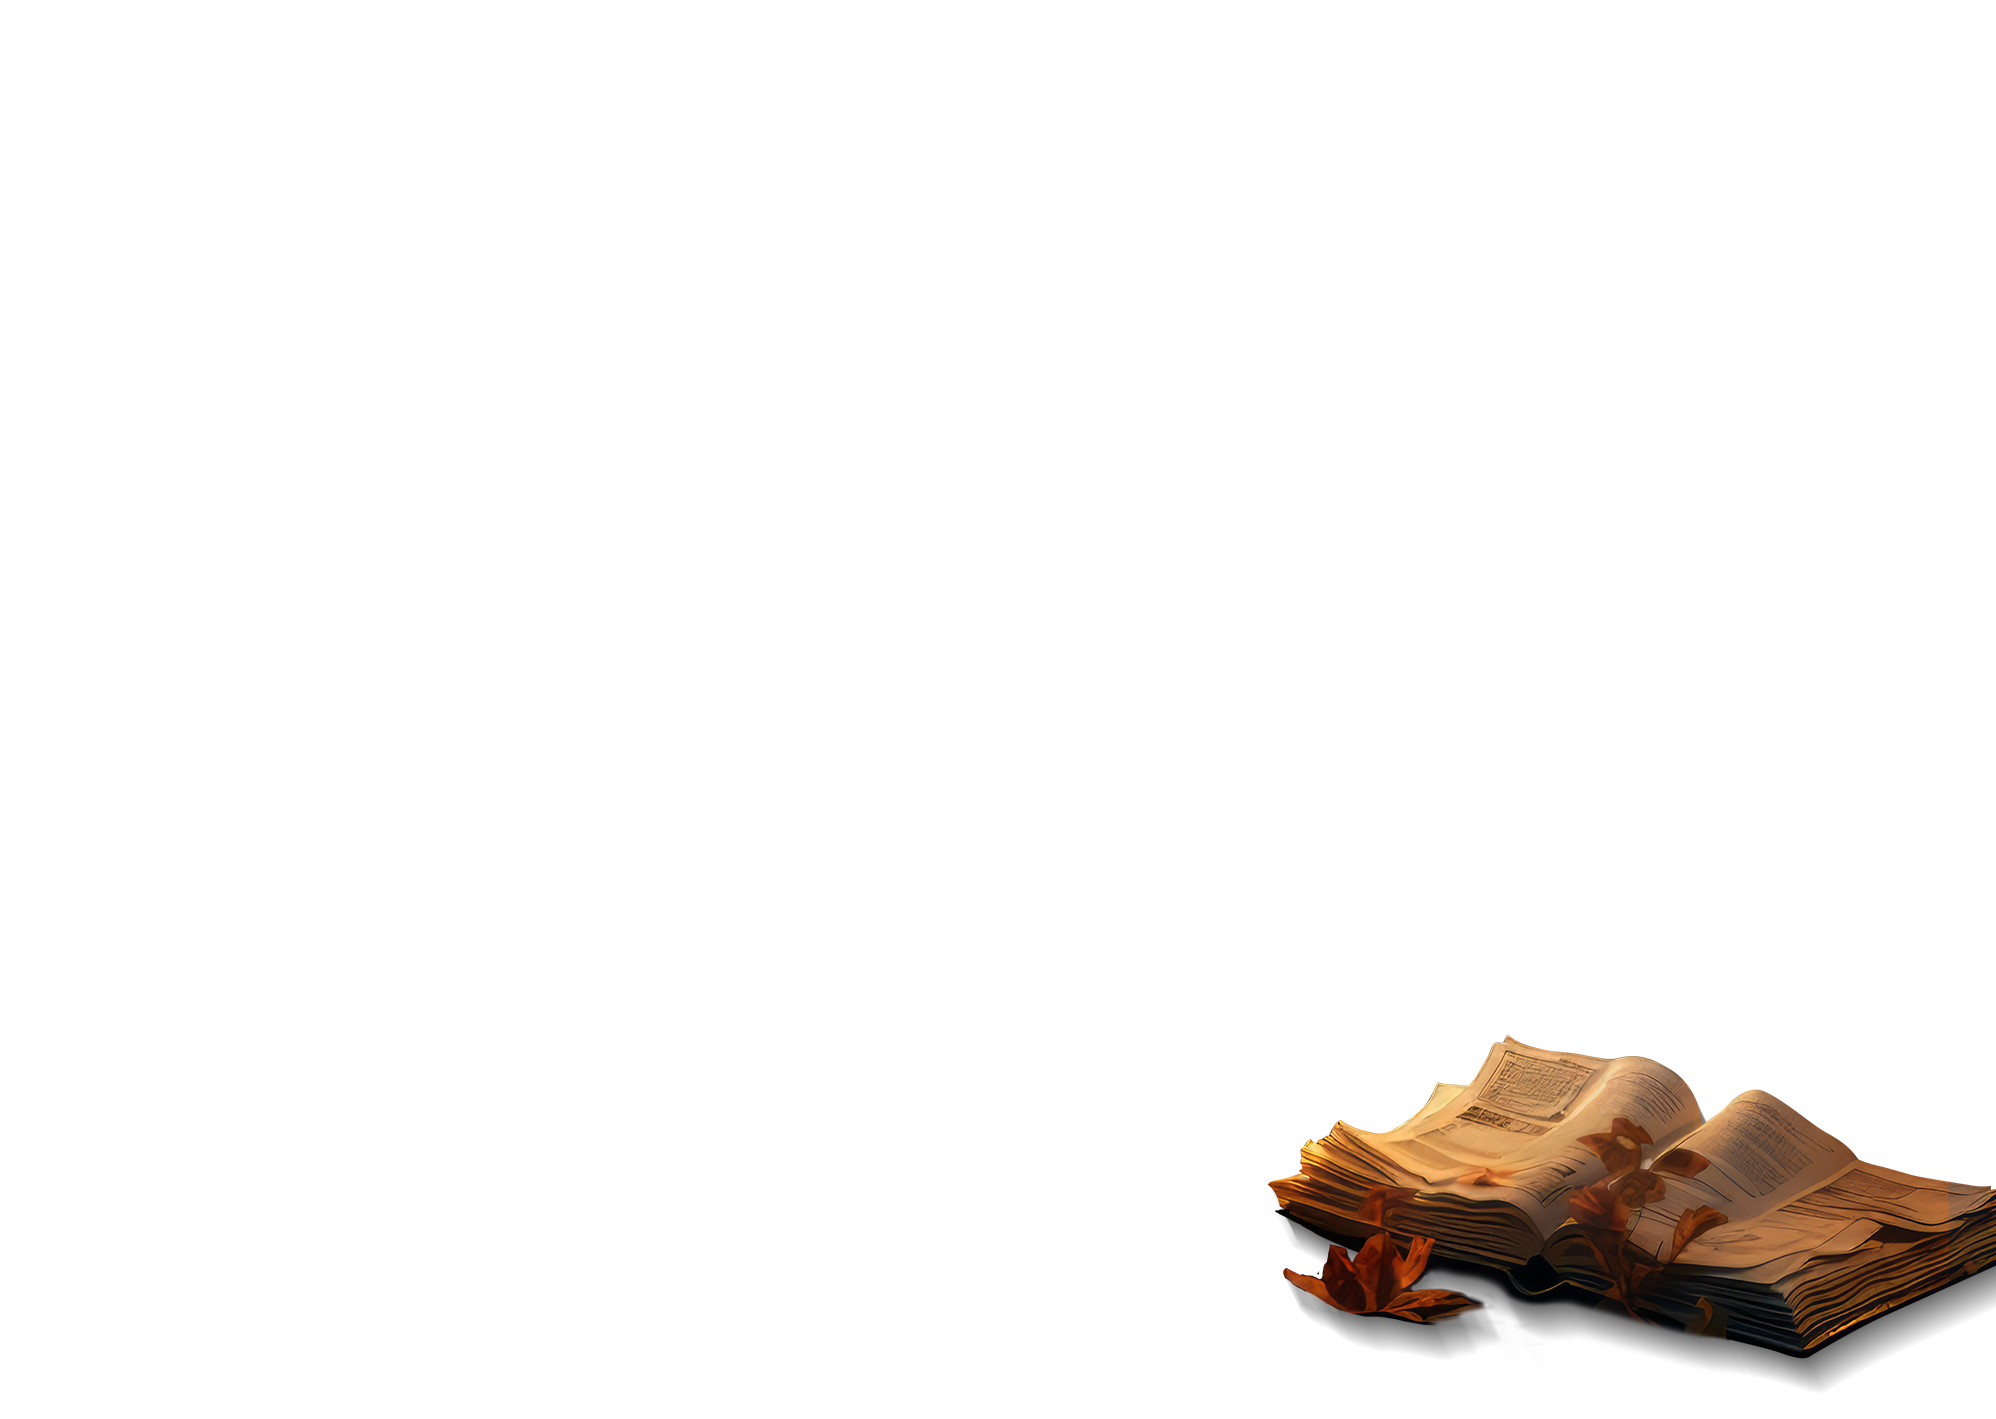
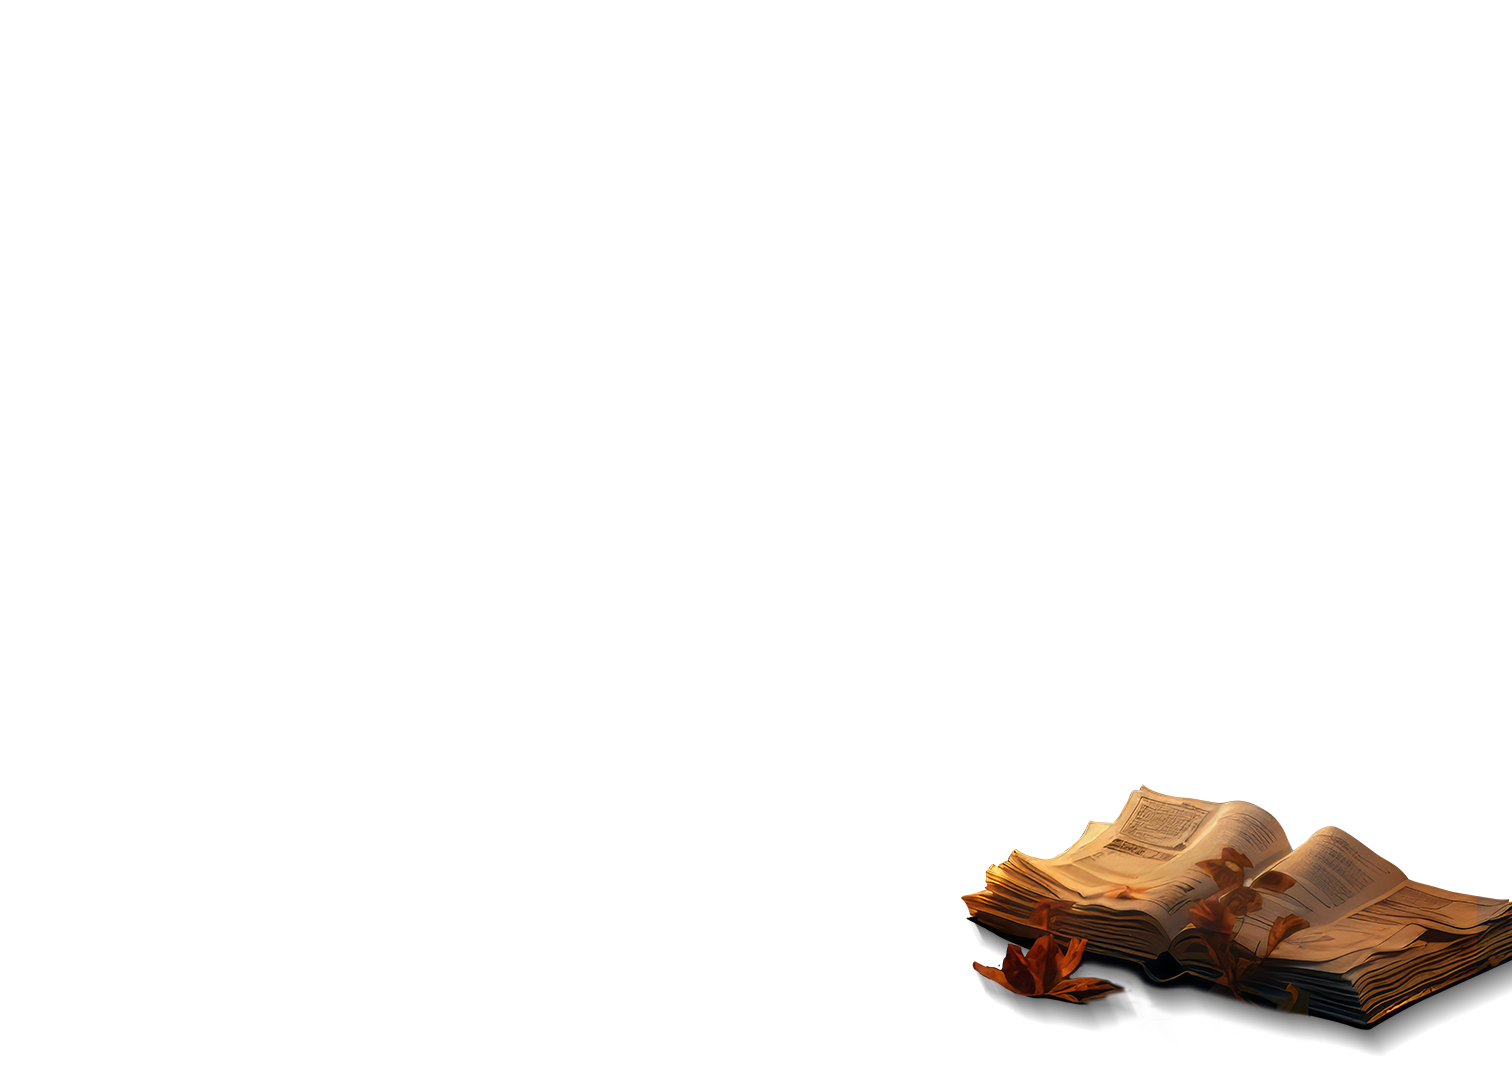
feat_新增首頁名稱卷軸

diff --git a/src/Assets/css/index.css b/src/Assets/css/index.css
@@ -5,6 +5,16 @@
   box-sizing: border-box;
 }
 
+.bgBook {
+  height: 100vh;
+  position: absolute;
+  z-index: 1000;
+  top: 50%;
+  left: 50%;
+  transform: translate(-50%, -50%);
+  pointer-events: none;
+}
+
 .wrapper {
   width: 100%;
   height: 100vh;
@@ -30,6 +40,10 @@
   height: 100vh;
 }
 
+.main_container {
+  position: relative;
+}
+
 .main_container img {
   position: absolute;
   top: 50%;
@@ -43,11 +57,22 @@
 
 .main_container .img_hover {
   opacity: 0;
-  transition: opacity 0.4s ease-out;
+  transition: opacity 0.6s ease-out;
+}
+
+.main_container .scroll {
+  opacity: 0;
+  transition: opacity 1.2s ease-out;
+  transition-delay: 0.2s;
+  animation: bounceScroll 3s ease-in-out infinite; /* 上下浮動動畫 */
+  position: absolute;
+  z-index: 1000;
 }
 
 .parallax-wrapper .skyCity {
   animation: bounce 4s ease-in-out infinite; /* 上下浮動動畫 */
+  position: absolute;
+  z-index: 500;
 }
 
 /* 上下浮動的 keyframes 動畫 */
@@ -60,6 +85,17 @@
   }
   100% {
     transform: translate(-50%, -50%) translateY(0) scale(0.97); /* 返回初始位置 */
+  }
+}
+@keyframes bounceScroll {
+  0% {
+    transform: translate(-50%, -50%) translateY(-13px) scale(0.97); /* 初始位置，保持置中 */
+  }
+  50% {
+    transform: translate(-50%, -50%) translateY(0) scale(0.98); /* 上移 10px */
+  }
+  100% {
+    transform: translate(-50%, -50%) translateY(-13px) scale(0.97); /* 返回初始位置 */
   }
 }
 .parallax-wrapper .cloud_left {
@@ -190,6 +226,10 @@
   opacity: 1;
 }
 
+.hoverAreaSkyCity:hover + .skyCity ~ .storyBooks_scroll {
+  opacity: 1;
+}
+
 .hoverAreaBoy1 {
   position: absolute;
   width: 9vw;
@@ -215,6 +255,10 @@
 }
 
 .hoverAreaBoy:hover + .boy {
+  opacity: 1;
+}
+
+.hoverAreaBoy:hover + .boy ~ .myCabin_scroll {
   opacity: 1;
 }
 

diff --git a/src/Assets/style/page/index.scss b/src/Assets/style/page/index.scss
@@ -9,6 +9,14 @@
   box-sizing: border-box;
 }
 
+.bgBook {
+  height: 100vh;
+  position: absolute;
+  z-index: 1000;
+  @include imgCenter();
+  pointer-events: none;
+}
+
 .wrapper {
   width: 100%;
   height: 100vh;
@@ -33,6 +41,10 @@
   height: 100vh;
 }
 
+.main_container {
+  position: relative;
+}
+
 .main_container img {
   position: absolute;
   @include imgCenter();
@@ -45,12 +57,27 @@
 
 .main_container .img_hover {
   opacity: 0;
-  transition: opacity 0.4s ease-out;
+  transition: opacity 0.6s ease-out;
+}
+
+.main_container .scroll {
+  opacity: 0;
+  transition: opacity 1.2s ease-out;
+  transition-delay: 0.2s;
+  animation: bounceScroll 3s ease-in-out infinite; /* 上下浮動動畫 */
+  position: absolute;
+  z-index: 1000;
 }
 
 .parallax-wrapper .skyCity {
   animation: bounce 4s ease-in-out infinite; /* 上下浮動動畫 */
+  position: absolute;
+  z-index: 500;
 }
+
+// .storyBooks_scroll {
+
+// }
 
 /* 上下浮動的 keyframes 動畫 */
 @keyframes bounce {
@@ -62,6 +89,18 @@
   }
   100% {
     transform: translate(-50%, -50%) translateY(0) scale(0.97); /* 返回初始位置 */
+  }
+}
+
+@keyframes bounceScroll {
+  0% {
+    transform: translate(-50%, -50%) translateY(-13px) scale(0.97); /* 初始位置，保持置中 */
+  }
+  50% {
+    transform: translate(-50%, -50%) translateY(0) scale(0.98); /* 上移 10px */
+  }
+  100% {
+    transform: translate(-50%, -50%) translateY(-13px) scale(0.97); /* 返回初始位置 */
   }
 }
 
@@ -203,6 +242,10 @@
   opacity: 1;
 }
 
+.hoverAreaSkyCity:hover + .skyCity ~ .storyBooks_scroll {
+  opacity: 1;
+}
+
 .hoverAreaBoy1 {
   position: absolute;
   width: 9vw;
@@ -230,6 +273,10 @@
 }
 
 .hoverAreaBoy:hover + .boy {
+  opacity: 1;
+}
+
+.hoverAreaBoy:hover + .boy ~ .myCabin_scroll {
   opacity: 1;
 }
 

diff --git a/src/views/Phantasia.vue b/src/views/Phantasia.vue
@@ -4,6 +4,8 @@
 
 <template>
   <div class="wrapper">
+    <img src="../Assets/Day/bookRows_bgi33.png" alt="" class="bgBook" />
+
     <div class="positionArea">
       <div class="main_container" ref="parallaxContainer">
         <div class="parallax-wrapper" data-depth="0.12">
@@ -35,11 +37,15 @@
             alt=""
             class="skyCity img_hover"
           />
-        </div>
-
-        <div class="parallax-wrapper" data-depth="0.1">
+          <img
+            src="../Assets/Day/storyBooks_scroll.png"
+            alt=""
+            class="storyBooks_scroll scroll"
+          />
           <img src="../Assets/Day/day_skyCity.png" alt="" class="skyCity" />
         </div>
+
+        <!-- <div class="parallax-wrapper" data-depth="0.1"></div> -->
 
         <div class="parallax-wrapper" data-depth="0.11">
           <img
@@ -88,11 +94,15 @@
             alt=""
             class="boy img_hover"
           />
-        </div>
-
-        <div class="parallax-wrapper" data-depth="0.05">
+          <img
+            src="../Assets/Day/myCabin_scroll.png"
+            alt=""
+            class="myCabin_scroll scroll"
+          />
           <img src="../Assets/Day/boy_day.png" alt="" class="boy" />
         </div>
+
+        <!-- <div class="parallax-wrapper" data-depth="0.05"></div> -->
         <div class="parallax-wrapper" data-depth="0.05">
           <div class="hoverAreaBook" @click="ToAbout"></div>
 
